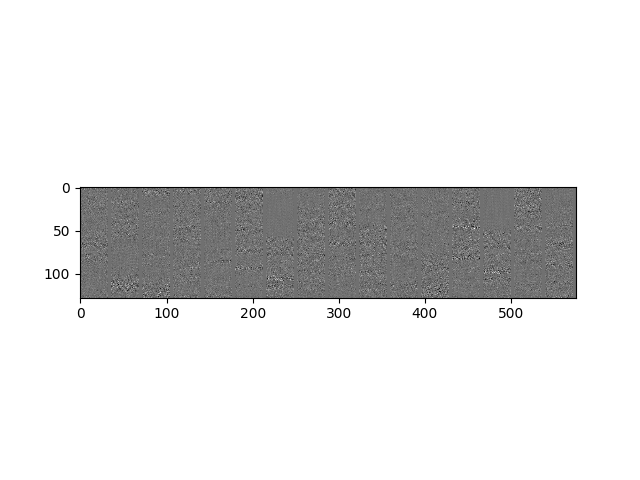
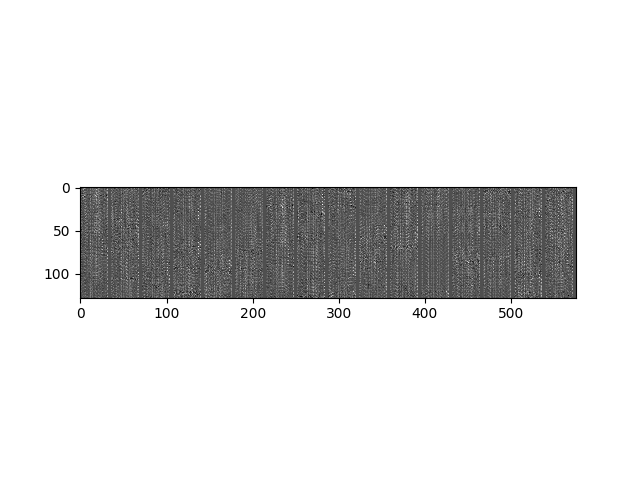
replace vanilla meta ae by variational meta ae

Changed region(s): [[0.125, 0.375, 0.9062, 0.625]]

diff --git a/3dvae/3dvae.py b/3dvae/3dvae.py
@@ -58,7 +58,8 @@ def get_state_pairs(frames,ae1,ae2):
 def train_simulator():
     frames = log_run()
     ae = VanillaAutoencoder([None,64,64,1], 1e-3, batch_size, latent_dim)
-    meta_ae = MetaVanillaAutoencoder([None,32,128,1], 1e-3, batch_size, latent_dim, '/home/ronnypetson/models/meta_encoder')
+    #meta_ae = MetaVanillaAutoencoder([None,32,128,1], 1e-3, batch_size, latent_dim, '/home/ronnypetson/models/meta_encoder')
+    meta_ae = VariationalAutoencoder(input_dim=[None,32,128,1], model_fname='/home/ronnypetson/models/Meta_VAE')
     state_pairs = get_state_pairs(frames,ae,meta_ae)
     num_sample = len(state_pairs)
 
@@ -68,7 +69,7 @@ def train_simulator():
 
     simulator = Transition(model_fname='/home/ronnypetson/models/Vanilla_transition')
     #simulator = TransitionWGAN(model_fname='/home/ronnypetson/models/Transition_WGAN')
-    for epoch in range(500):
+    for epoch in range(100):
         for iter in range(num_sample // batch_size):
             # Obtina a batch
             batch = get_batch(state_pairs)
@@ -149,7 +150,8 @@ def train_meta_ae():
         plt.close(fig)
 
     num_sample=len(encodings)
-    meta_ae = MetaVanillaAutoencoder([None,32,128,1], 1e-3, batch_size, latent_dim, '/home/ronnypetson/models/meta_encoder')
+    #meta_ae = MetaVanillaAutoencoder([None,32,128,1], 1e-3, batch_size, latent_dim, '/home/ronnypetson/models/meta_encoder')
+    meta_ae = VariationalAutoencoder(input_dim=[None,32,128,1], model_fname='/home/ronnypetson/models/Meta_VAE')
     for epoch in range(100):
         for iter in range(num_sample // batch_size):
             # Obtain a batch

diff --git a/3dvae/vae.py b/3dvae/vae.py
@@ -2,7 +2,7 @@ import os
 import numpy as np
 import tensorflow as tf
 
-class VariantionalAutoencoder(object):
+class VariationalAutoencoder(object):
     def __init__(self, input_dim=[None,64,64,1], learning_rate=1e-3, batch_size=64, n_z=128, model_fname='/home/ronnypetson/models/VAE_pong'):
         self.input_dim = input_dim
         self.learning_rate = learning_rate
@@ -41,8 +41,9 @@ class VariantionalAutoencoder(object):
         self.z = self.z_mu + tf.sqrt(tf.exp(self.z_log_sigma_sq)) * eps
         # Decode
         # z -> x_hat
-        dec1 = tf.layers.dense(self.z,32*32*64,activation=tf.nn.relu) # tf.shape(flat1)
-        dec1 = tf.reshape(dec1,[-1,32,32,64]) # tf.shape(conv3)
+        new_dim = [-1,self.input_dim[1]//2,self.input_dim[2]//2,64]
+        dec1 = tf.layers.dense(self.z,np.prod(new_dim[1:]),activation=tf.nn.relu) # tf.shape(flat1)
+        dec1 = tf.reshape(dec1,new_dim) # tf.shape(conv3)
         dec2 = tf.layers.conv2d_transpose(dec1, 64, (3,3), (1,1), padding='same', activation=tf.nn.relu)
         dec3 = tf.layers.conv2d_transpose(dec2, 64, (5,5), (1,1), padding='same', activation=tf.nn.relu)
         self.x_hat = tf.layers.conv2d_transpose(dec3, 1, (5,5), (2,2), padding='same', activation=tf.nn.sigmoid)
